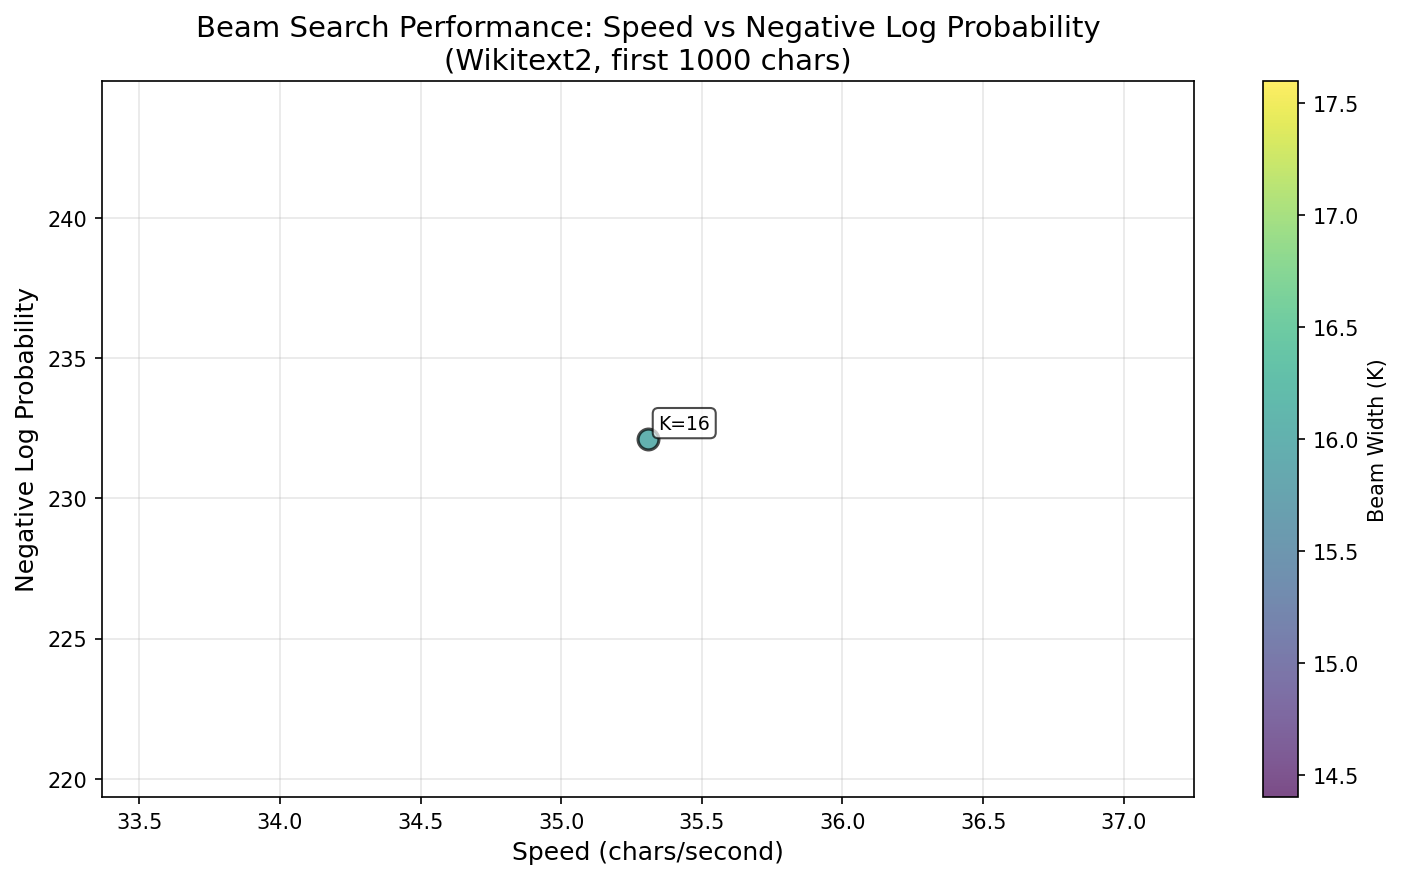
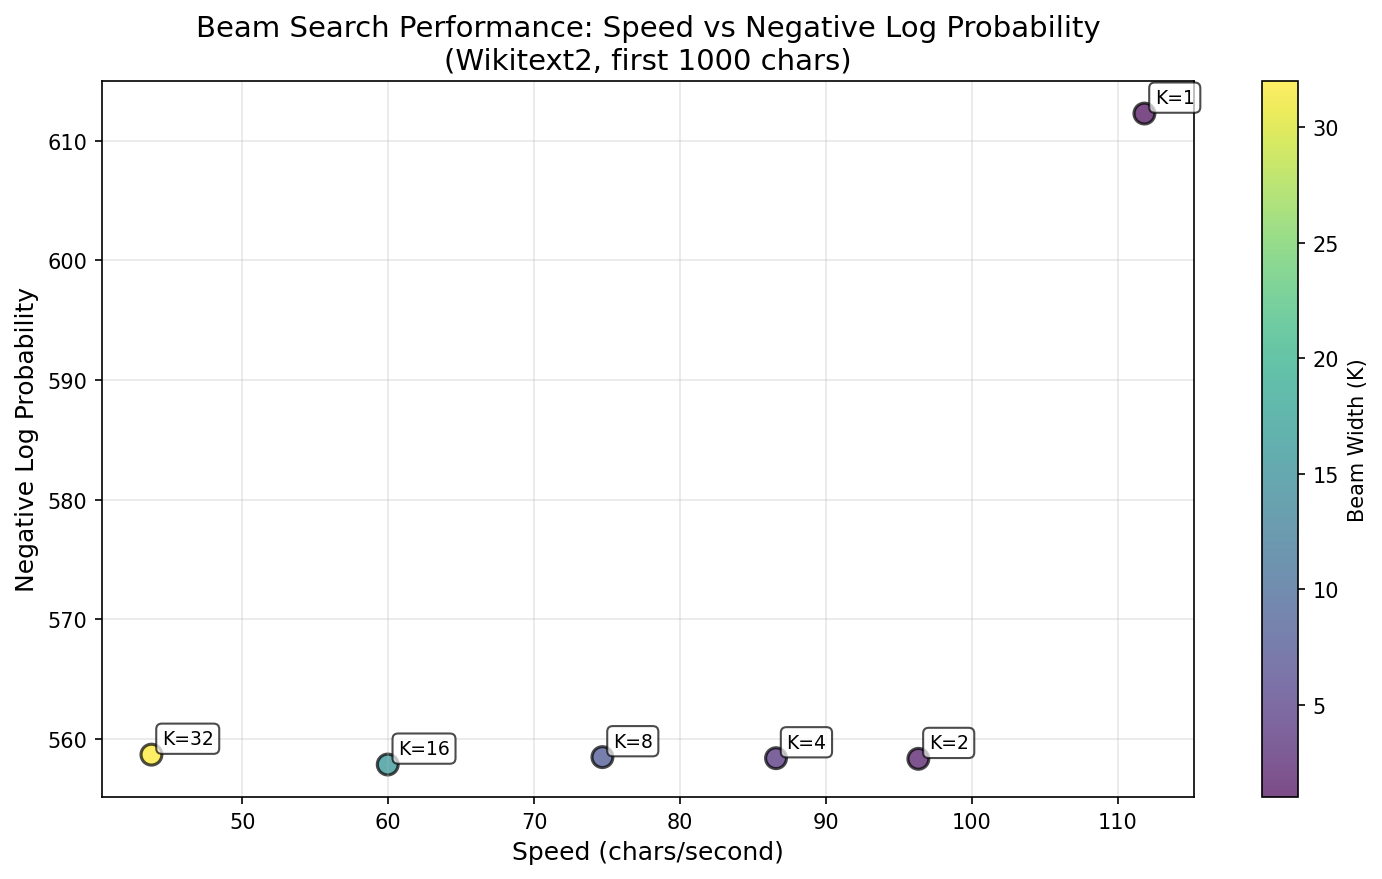
fasttttttt

diff --git a/genlm/bytes/byte_lm/beam.py b/genlm/bytes/byte_lm/beam.py
@@ -308,7 +308,9 @@ class ByteBeamState(StatefulByteLM):
                 )
 
             # Base weight at the start of the current token
-            base_weight = state.weight - (state.mass[state.node] - state.mass[trie.root])
+            base_weight = state.weight - (
+                state.mass[state.node] - state.mass[trie.root]
+            ).item()
 
             # Build path nodes along partial_bytes from root
             path_nodes = self._build_path_nodes(children, trie.root, partial_bytes)
@@ -470,7 +472,7 @@ class ByteBeamState(StatefulByteLM):
         ancestor_node = path_nodes[chosen_k]
         eot_node = children[ancestor_node].get(trie.eot_token)
         token_id = int(trie.leaf2token_id[eot_node])
-        weight_after_eot = base_weight + (state.mass[eot_node] - state.mass[ancestor_node])
+        weight_after_eot = base_weight + (state.mass[eot_node] - state.mass[ancestor_node]).item()
 
         committed_state = LazyTrieState(
             lm_state=(state.lm_state << token_id),
@@ -502,9 +504,7 @@ class ByteBeamState(StatefulByteLM):
             nonlocal current_node, current_weight
             for byte_val in suffix_list[start:end]:
                 next_node = children[current_node].get(byte_val)
-                current_weight = current_weight + (
-                    committed_state.mass[next_node] - committed_state.mass[current_node]
-                )
+                current_weight = current_weight + (committed_state.mass[next_node] - committed_state.mass[current_node]).item()
                 current_node = next_node
 
         for commit_pos in plan_positions:
@@ -518,9 +518,7 @@ class ByteBeamState(StatefulByteLM):
                     )
                 return None
             token_id_at_pos = int(trie.leaf2token_id[eot_node_at_pos])
-            current_weight = current_weight + (
-                committed_state.mass[eot_node_at_pos] - committed_state.mass[current_node]
-            )
+            current_weight = current_weight + (committed_state.mass[eot_node_at_pos] - committed_state.mass[current_node]).item()
             # Advance LM and materialize new masses
             committed_state = LazyTrieState(
                 lm_state=(committed_state.lm_state << token_id_at_pos),
@@ -545,9 +543,7 @@ class ByteBeamState(StatefulByteLM):
         _follow_span(last_pos, len(suffix_list))
         # Advance by next_byte under current committed_state.mass
         child_node = children[current_node].get(next_byte)
-        final_weight = current_weight + (
-            committed_state.mass[child_node] - committed_state.mass[current_node]
-        )
+        final_weight = current_weight + (committed_state.mass[child_node] - committed_state.mass[current_node]).item()
         healed_state = LazyTrieState(
             lm_state=committed_state.lm_state,
             trie=state.trie,

diff --git a/genlm/bytes/byte_lm/trie_state.py b/genlm/bytes/byte_lm/trie_state.py
@@ -121,12 +121,13 @@ class LazyTrieState:
 
         if node := self.children[self.node].get(b):
             mass = self.mass
+            delta = (mass[node] - mass[self.node]).item()
             return LazyTrieState(
                 lm_state=self.lm_state,
                 trie=self.trie,
                 mass=mass,
                 node=node,
-                weight=self.weight + mass[node] - mass[self.node],
+                weight=self.weight + delta,
                 mode=self.mode,
                 terminated=b == EOS,
             )
@@ -140,12 +141,13 @@ class LazyTrieState:
         if self._extend is None:
             if eot_node := self.get_EOT():
                 mass = self.mass
+                delta = (mass[eot_node] - mass[self.node]).item()
                 self._extend = LazyTrieState(
                     lm_state=self.lm_state
                     << int(self.trie.trie.leaf2token_id[eot_node]),
                     trie=self.trie,
                     node=self.root,
-                    weight=self.weight + mass[eot_node] - mass[self.node],
+                    weight=self.weight + delta,
                     mode=self.mode,
                 )
         return self._extend
@@ -159,10 +161,10 @@ class LazyTrieState:
         """
         logps = np.full(258, -np.inf)  # 258 for EOT, EOS + 256 for normal bytes
         mass = self.mass
-        logZ = mass[self.node]
+        logZ = mass[self.node].item()
 
         for byte, node in self.actions().items():
-            logps[byte if byte is not None else 256] = mass[node] - logZ
+            logps[byte if byte is not None else 256] = mass[node].item() - logZ
 
         return LazyByteProbs(logps)
 
@@ -176,9 +178,8 @@ class LazyTrieState:
         """
         if self._mass is None:
             logp_next = await self.lm_state.logp_next()
-            log_mass = await self.trie.weight_sum(torch.exp(logp_next), self.mode)
-            mass = torch.log(log_mass)
-            self._mass = mass.cpu().numpy()
+            mass = await self.trie.weight_sum(torch.exp(logp_next), self.mode)
+            self._mass = torch.log(mass)
         return self
 
     def __repr__(self):

diff --git a/tests/test_healing.py b/tests/test_healing.py
@@ -1,5 +1,6 @@
 import pytest
 import numpy as np
+import torch
 from types import SimpleNamespace
 
 from genlm.backend import load_model_by_name
@@ -210,7 +211,7 @@ async def test_adaptive_heal_skips_state_when_partial_path_invalid():
             )
             self.weight = 0.0
             self.node = 0
-            self.mass = np.zeros(len(children))
+            self.mass = torch.zeros(len(children), dtype=torch.float32)
             self.partial = [2]  # Missing path so _build_path_nodes -> None
             self.mode = "with_eos"
             self.lm_state = DummyLMState()
@@ -267,7 +268,10 @@ async def test_apply_commit_plan_invalid_eot_abort(monkeypatch):
             self.weight = weight
             self.mode = mode
             self.terminated = terminated
-            self._mass = mass
+            if mass is None:
+                self._mass = None
+            else:
+                self._mass = torch.tensor(mass, dtype=torch.float32)
 
         @property
         def mass(self):
@@ -280,7 +284,7 @@ async def test_apply_commit_plan_invalid_eot_abort(monkeypatch):
         async def materialize(self):
             if self._mass is None:
                 size = len(self.trie.trie.children)
-                self._mass = np.linspace(0.0, 1.0, size)
+                self._mass = torch.linspace(0.0, 1.0, size)
             return self
 
     monkeypatch.setattr(beam_module, "LazyTrieState", FakeLazyTrieState)

diff --git a/genlm/bytes/byte_lm/lm_state.py b/genlm/bytes/byte_lm/lm_state.py
@@ -145,18 +145,6 @@ class StatefulByteLM(ABC):
         return list(advanced_states)
 
 
-async def advance_byte_states(
-    states: Sequence[StatefulByteLM],
-    next_bytes: Sequence[int],
-) -> list[StatefulByteLM]:
-    """Public helper that batches ``prune``/``<<`` across multiple states.
-
-    This is a thin wrapper over :meth:`StatefulByteLM.advance_batch` to provide a
-    module-level API.
-    """
-
-    return await StatefulByteLM.advance_batch(states, next_bytes)
-
     async def greedy(self, context, steps):
         """Performs greedy decoding for given number of steps.
 
@@ -199,3 +187,12 @@ async def advance_byte_states(
     async def cleanup(self):
         """Performs any necessary cleanup of the model state."""
         pass  # pragma: no cover
+
+
+async def advance_byte_states(
+    states: Sequence[StatefulByteLM],
+    next_bytes: Sequence[int],
+) -> list[StatefulByteLM]:
+    """Public helper that batches ``prune``/``<<`` across multiple states."""
+
+    return await StatefulByteLM.advance_batch(states, next_bytes)

diff --git a/test_simple_generate.py b/test_simple_generate.py
@@ -1,0 +1,35 @@
+import asyncio
+
+from genlm.backend import load_model_by_name
+from genlm.bytes import BeamParams, ByteBeamState
+from genlm.bytes.byte_lm.trie_state import EOS
+
+PROMPT = b"Respond with a single sentence."
+
+
+async def generate_until_eos():
+    llm = load_model_by_name("gpt2", backend="hf")
+    eos_byte = llm.byte_vocab[llm.tokenizer.eos_token_id]
+    params = BeamParams(K=16, eos_tokens=[eos_byte, b'\n', b'\n\n'], heal=True, verbose=True)
+
+    state = await ByteBeamState.initial(llm, params)
+
+    try:
+        state = await state.prefill(PROMPT)
+        output = bytearray(PROMPT)
+
+        while True:
+            chart = (await state.logp_next()).materialize()
+            next_byte = chart.argmax()
+            state = await (state.prune() << next_byte)
+
+            if next_byte in [eos_byte, b'\n', b'\n\n']:
+                break
+            output.append(next_byte)
+
+        return bytes(output)
+    finally:
+        await state.cleanup()
+
+
+asyncio.run(generate_until_eos())

diff --git a/tests/test_beam.py b/tests/test_beam.py
@@ -70,7 +70,7 @@ async def test_weights(llm, prune_threshold):
                 for i in range(1, len(context)):
                     logps = await llm.next_token_logprobs(context[:i])
                     want += logps[context[i]]
-                want += candidate.mass[candidate.node]
+                want += candidate.mass[candidate.node].item()
                 assert np.isclose(want, candidate.weight, rtol=0.01)
             state = state.prune()
     finally:
@@ -173,7 +173,7 @@ async def test_can_generate_with_eos_in_prompt(llm):
 
         # Verify mass distribution behavior after generation
         post_gen_trie = post_generation_state.states[0].trie.trie
-        masses_gen = post_generation_state.states[0].mass
+        masses_gen = post_generation_state.states[0].mass.detach().cpu().numpy()
         assert not np.isnan(masses_gen[post_gen_trie.eos_node])
 
         # Verify EOS probability is accessible from logp_next

diff --git a/genlm/bytes/trie.py b/genlm/bytes/trie.py
@@ -374,7 +374,9 @@ class TokenByteTrie:
             batch_ws = ws[i : i + self.max_batch_size]
             masses = torch.sparse.mm(batch_ws[:, self.token_ids], matrix)
             all_masses.append(masses)
-        return torch.cat(all_masses, dim=0)
+        result = torch.cat(all_masses, dim=0)
+        result[:, self.root] = ws.sum(dim=1)
+        return result
 
     def weight_max(self, ws):
         """Computes the maximum weight of all descendant leaf nodes (tokens) for each node in the trie.

diff --git a/benchmark_k_values.py b/benchmark_k_values.py
@@ -237,8 +237,8 @@ def main():
     print(f"Using first {len(text)} characters from Wikitext2")
     print(f"Preview: {text[:100]}...")
 
-    # K_values = [1, 2, 4, 8, 16, 32]
-    K_values = [16]
+    K_values = [1, 2, 4, 8, 16, 32]
+    # K_values = [16]
 
     results = asyncio.run(
         run_benchmark(
